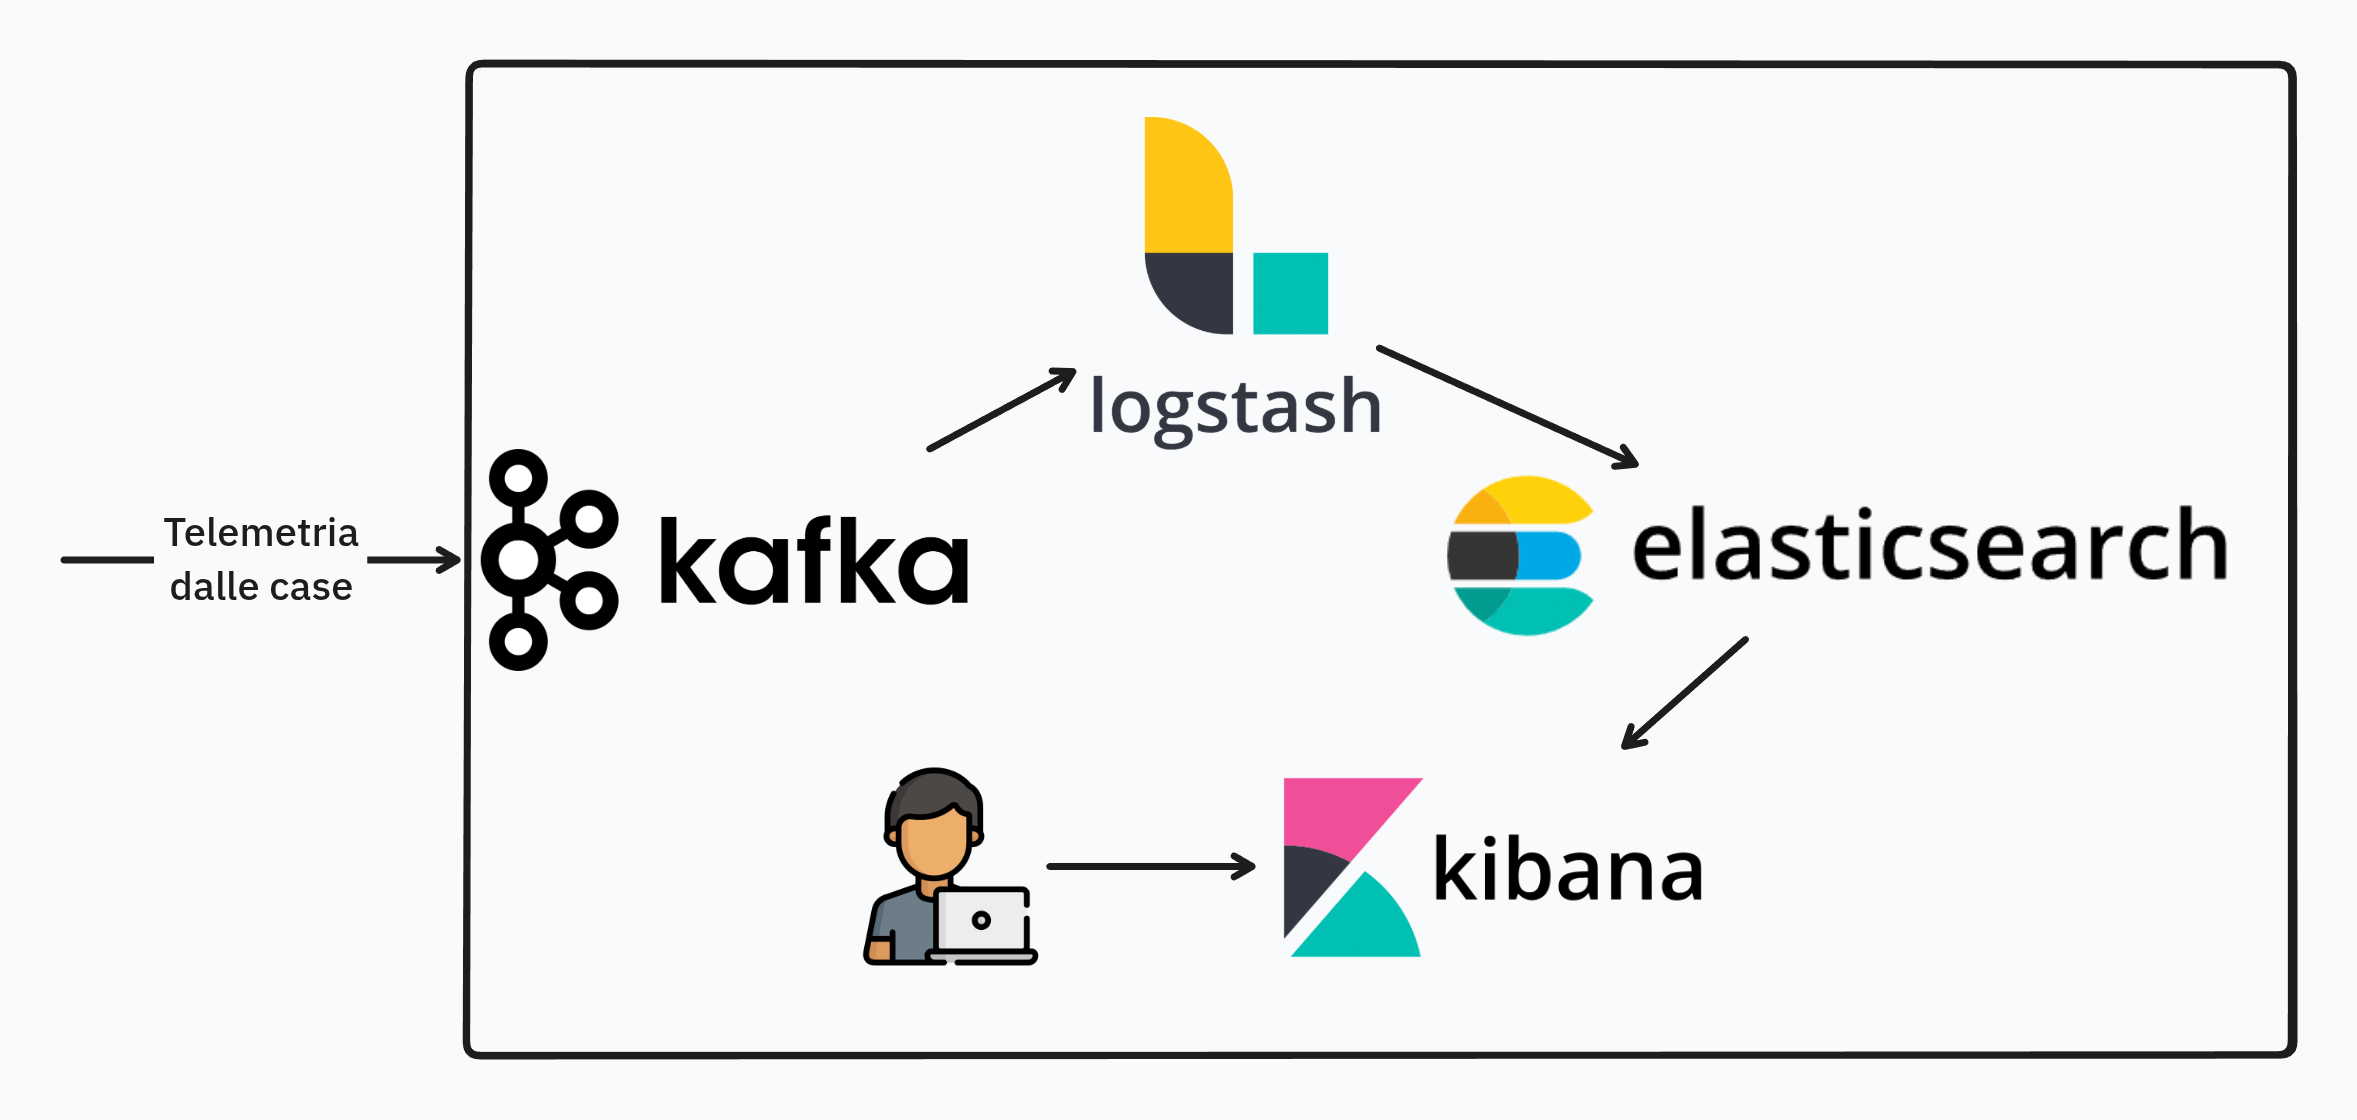
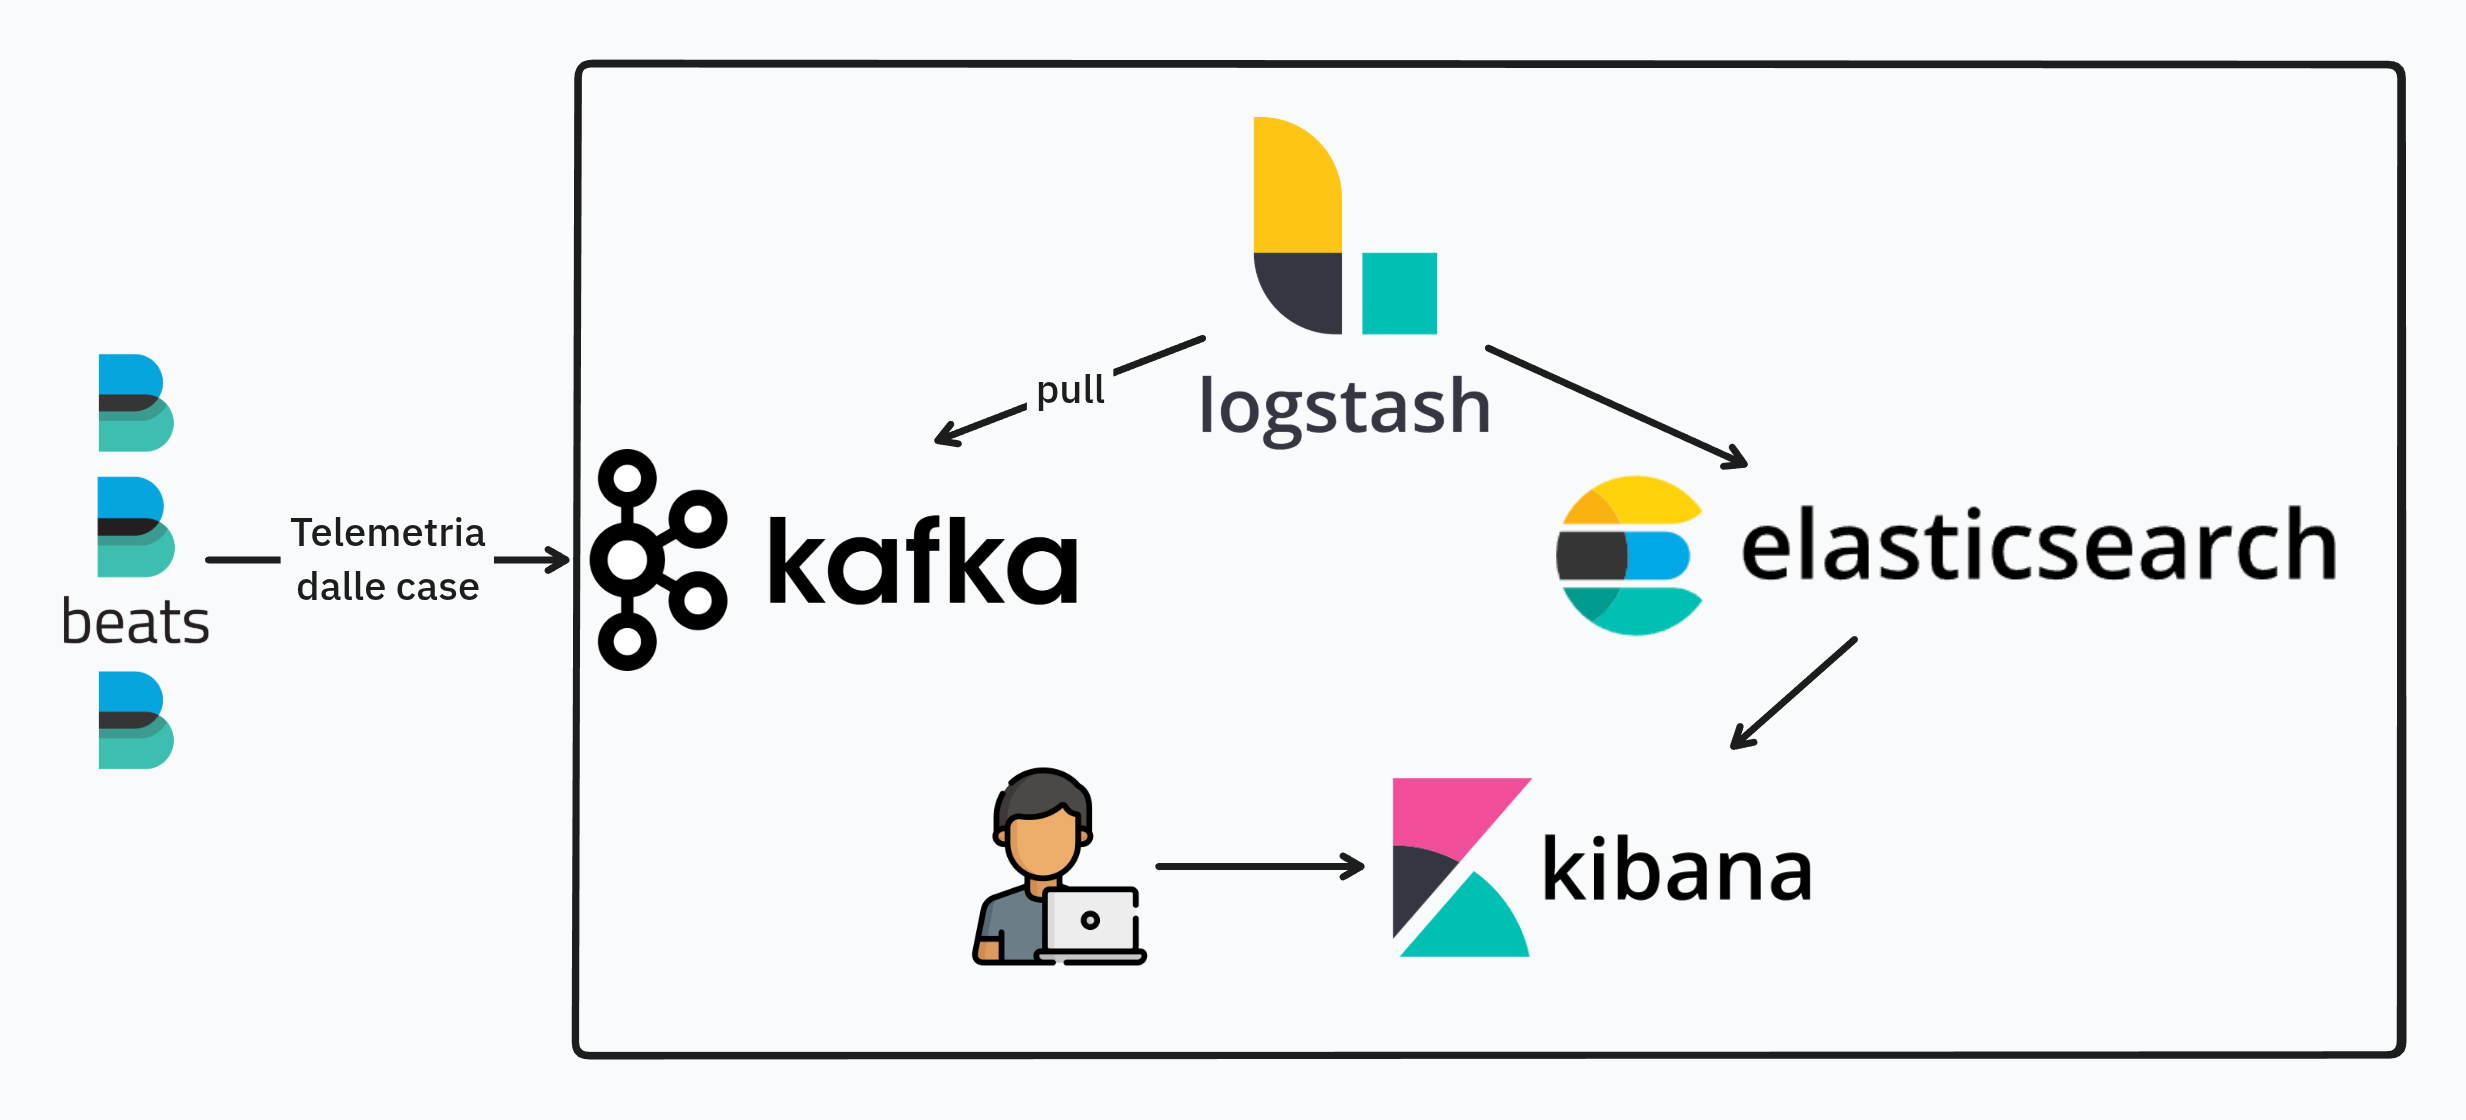
Cleanup, write README

diff --git a/README.md b/README.md
@@ -4,7 +4,7 @@ Questo progetto, originariamente creato per l'esame di Industrial Internet of Th
 ## Tecnologie e strumenti utilizzati
 - Python (con asyncio)
 - MQTT
-- Docker
+- Docker, Docker compose
 - Filebeat
 - Apache Kafka
 - Logstash
@@ -15,6 +15,30 @@ Questo progetto, originariamente creato per l'esame di Industrial Internet of Th
 ```bash
 docker compose up
 ```
+Poi aprire un browser e collegarsi all'indirizzo di Kibana (di default, http://localhost:5601) per visualizzare le dashboard.
+> [!IMPORTANT]  
+> Impostare correttamente la finestra temporale su Kibana o non si vedranno i dati. Ad esempio, se si è impostato l'inizio della simulazione a "2025-01-01 00:00", il campo "Start date" andrà impostato a quel valore.
+>
+> ![Impostazione Time Window Kibana](images/kibana-time-window.png "Time Window Kibana")
+
+
+Per vedere nel dettaglio il funzionamento di una delle case:
+```bash
+docker exec -it nome-container-casa tmux -u attach
+```
+Ad esempio:
+```bash
+docker exec -it progetto-industrialiot-house-1 tmux -u attach
+```
+![Simulazione Casa Tmux 1](images/house-tmux-1.png "Casa Tmux 1")
+![Simulazione Casa Tmux 2](images/house-tmux-2.png "Casa Tmux 2")
+
+
+## Dashboard Kibana
+![Dashboard Kibana 1](images/kibana-dashboard-1.png "Dashboard 1")
+![Dashboard Kibana 2](images/kibana-dashboard-2.png "Dashboard 2")
+![Dashboard Kibana 3](images/kibana-dashboard-3.png "Dashboard 3")
+
 
 ## Struttura del progetto
 ```
@@ -65,11 +89,11 @@ Le case simulate sono composte da vari componenti, descritti di seguito:
 ```
 house/
 ├── charge_controller.py  # Controller di carica delle batterie
-├── electric_panel.py     # Simulazione del quadro elettrico, gestisce gli scambi di energia
+├── electric_panel.py     # Quadro elettrico, gestisce gli scambi di energia
 ├── house_consumption.py  # Generazione dei profili di consumo energetico
-├── inverter.py           # Simulazione dell'inverter, raccoglie la produzione di tutti i pannelli solari
+├── inverter.py           # Inverter, raccoglie la produzione di tutti i pannelli solari
 ├── meteo_manager.py      # Gestione delle condizioni meteo simulate
-├── solar_panel.py        # Logica e simulazione dei singoli pannelli solari
+├── solar_panel.py        # Singoli pannelli solari
 ├── subscriber.py         # Gateway (concentratore) della casa, raccoglie dati da tutti i dispositivi
 └── time_manager.py       # Gestione del tempo simulato
 ```
@@ -88,17 +112,24 @@ Per ogni step di simulazione, il flusso delle informazioni è il seguente:
 
 
 ## Big Data pipeline
-![Immagine Big Data pipeline](images/big-data-pipeline.png "Big Data pipeline")
-
 La Big Data pipeline realizzata si compone delle seguenti tecnologie:
-- **Apache Kafka** è il punto di ingresso dell'intera soluzione. Grazie alle sue elevate prestazioni è un'ottima scelta per ricevere i dati di telemetria inviati dalle case (tramite Filebeat)
+- Ogni casa ha il suo **Filebeat** che invia i dati a Kafka
+- **Apache Kafka** è il punto di ingresso dell'intera soluzione. Grazie alle sue elevate prestazioni è un'ottima scelta per ricevere i dati di telemetria inviati dalle case
 - Il resto della pipeline è composto dallo **stack Elastic**:
     - **Logstash** fa il *pull* dei dati da Kafka, li pre-processa (rimuove alcuni campi per snellire il payload e ne trasforma altri per prepararli) e li manda ad Elasticsearch
     - **Elasticsearch** si occupa dello storage dei dati di telemetria, e ne permette il recupero e l'elaborazione (ad esempio per la creazione delle bollette)
     - **Kibana** consente la visualizzazione dei dati attraverso le dashboard create
 
-## Dashboard Kibana
-Inserire immagine/i dashboard Kibana
+![Immagine Big Data pipeline](images/big-data-pipeline.png "Big Data pipeline")
+
+
+## Utilizzo di memoria dei vari container
+- Elasticsearch: 50% della RAM disponibile sull'host
+- Logstash: ~1 GB
+- Kibana: ~600 MB
+- Kafka: ~400 MB
+- Una casa: ~140 MB
+- Elaboration: ~20 MB
 
 <!--
 > [!NOTE]  
